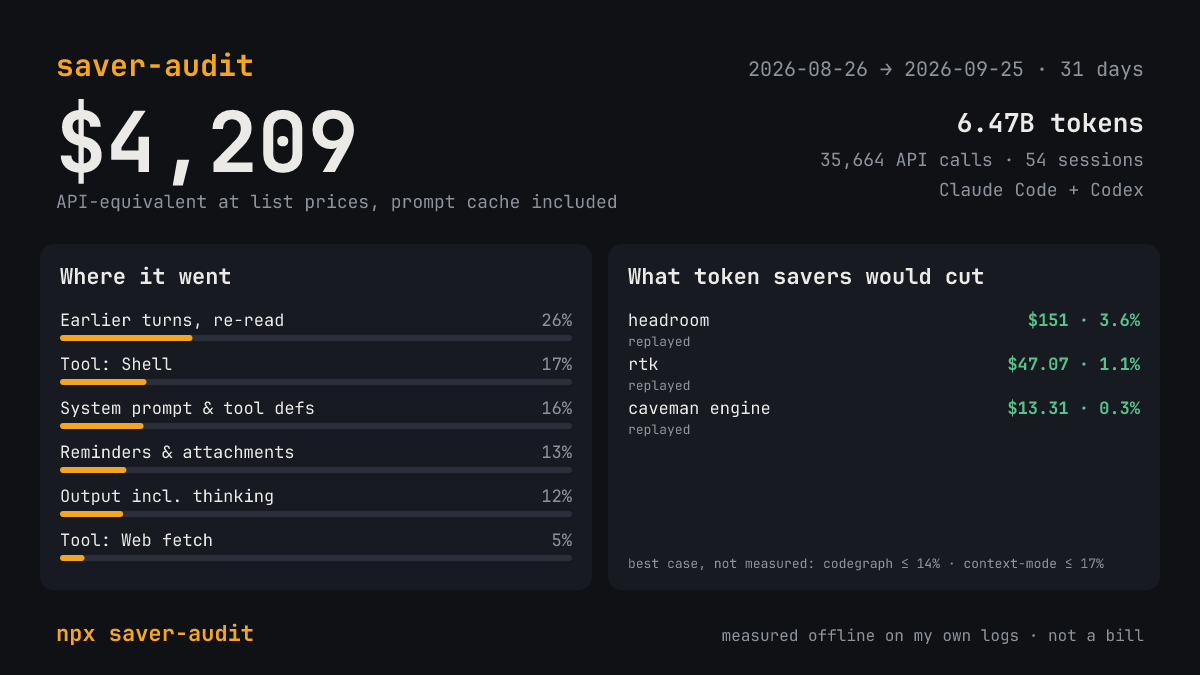
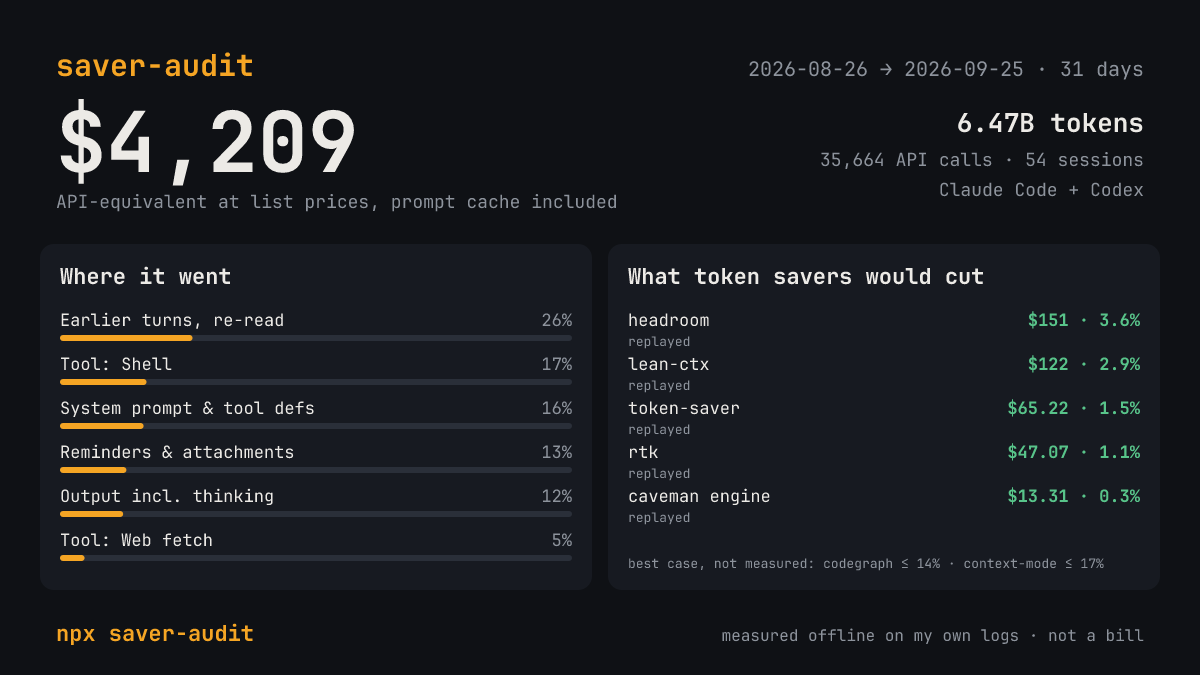
docs: 0.5.0 with five measured savers; accuracy notes; outreach status
Claude-Session: https://claude.ai/code/session_017dmgaMByAKwYp7ado9ov2D

diff --git a/README.md b/README.md
@@ -61,6 +61,8 @@ Nothing leaves your machine. The network is used only when you ask: `--update-pr
 | [rtk](https://github.com/rtk-ai/rtk) 0.50.0 | replayed (all 5,513 outputs) | 15% of tool output | $47 | 1.1% |
 | [caveman](https://github.com/JuliusBrussee/caveman) proxy engine | replayed (every output of 500+ tokens) | all tool output | $13 | 0.3% |
 | [headroom](https://github.com/headroomlabs-ai/headroom) 0.38.0 | replayed (all ~30k outputs), lower estimate | 56% | $151 | 3.6% |
+| [lean-ctx](https://github.com/yvgude/lean-ctx) 3.10.3 | replayed (every output of 1,000+ tokens) | 67% | $122 | 2.9% |
+| [token-saver](https://github.com/ppgranger/token-saver) 3.0.0 | replayed (every output of 1,000+ tokens) | 51% | $65 | 1.5% |
 | caveman skill | modeled: −8.5% output (JetBrains), SKILL.md in every prompt | output | $95 | 2.3% |
 | [codegraph](https://github.com/colbymchenry/codegraph) | upper bound | 43% | ≤ $579 | ≤ 13.8% |
 | [context-mode](https://github.com/mksglu/context-mode) | upper bound | 61% | ≤ $704 | ≤ 16.7% |
@@ -69,13 +71,13 @@ The two biggest items are things no tool-output saver touches:
 - **Re-reading earlier turns:** about a quarter of the cost is earlier assistant turns, thinking included, read again from cache on every call.
 - **The fixed system prompt and tool definitions:** another 16%.
 
-The headroom number is a lower estimate (see below). On Codex alone, where shell output is 44% of the cost, headroom would cut 10.4% and rtk 4.1%.
+The headroom number is a lower estimate (see below). On Codex alone, where shell output is 44% of the cost, headroom would cut 10.4% and rtk 4.1% (token-saver 12.0%, but it works through Claude Code hooks, so that figure is hypothetical).
 
 ## What the labels mean
 
 - **replayed.** saver-audit sends the recorded tool output through *your installed copy* of the saver and counts what is left, measured against what the model actually saw.
   - For example, Claude Code cuts large Bash output down to a preview, so that preview is the baseline.
-  - rtk and the caveman engine replay every output (caveman above 500 tokens, which leaves out about 5% of its savings). headroom, which runs an ML model per output, replays a sample of 300 by default and says so; `--full-replay` replays everything. Results are cached.
+  - rtk, the caveman engine, token-saver and lean-ctx replay every output above a size floor (caveman 500 tokens, token-saver and lean-ctx 1,000). Samples were checked against full replays and missed by up to 40%, so they're not used for these. The floors make caveman about 5%, token-saver about 10% and lean-ctx about 4% low, and the report says so. headroom, which runs an ML model per output, replays a sample of 300 by default and says so; `--full-replay` replays everything. Results are cached.
 - **modeled.** An estimate from a published measurement, with the assumption printed next to it.
 - **upper bound.** The saver changes how the agent behaves (which tools it calls), so replay can only give a ceiling: everything it could possibly remove.
 
@@ -110,10 +112,10 @@ In a terminal the default is the short view with the key menu, plus a card. When
 
 ## Installing the savers (one command)
 
-To get *measured* numbers for rtk, the caveman engine and headroom, they have to be on your machine: saver-audit runs your copy and never bundles saver code (caveman's engine is BSL-1.1).
+To get *measured* numbers for rtk, the caveman engine, token-saver, lean-ctx and headroom, they have to be on your machine: saver-audit runs your copy and never bundles saver code (caveman's engine is BSL-1.1).
 
 ```
-npx saver-audit --install-savers                  # rtk + caveman engine: ~32 MB, seconds
+npx saver-audit --install-savers                  # rtk, caveman engine, token-saver, lean-ctx: ~56 MB, seconds
 npx saver-audit --install-savers --with-headroom  # + headroom and its model: ~1.6 GB, minutes, Python 3.10+
 ```
 
@@ -149,4 +151,4 @@ What saver-audit adds:
 
 ## Status
 
-Early release (0.4.0). Requires Node ≥ 20. Issues and share cards welcome. MIT licence; bundled third-party components are listed in [THIRD_PARTY_NOTICES.md](THIRD_PARTY_NOTICES.md).
+Early release (0.5.0). Requires Node ≥ 20. Issues and share cards welcome. MIT licence; bundled third-party components are listed in [THIRD_PARTY_NOTICES.md](THIRD_PARTY_NOTICES.md).

diff --git a/docs/launch/saver-outreach.md b/docs/launch/saver-outreach.md
@@ -68,12 +68,12 @@
 
 Stdin modes were verified by reading each project's README and source, not by running the program. Anything marked "unverified" needs a real run before we publish a number.
 
-### Tier 1: replayable today. Add a manifest, verify it, then send template A
+### Tier 1: replayable today. Integrated in 0.5.0; send template A (method check)
 
 | Saver | ★ | Licence | Replay command (from source) | Channel | Note |
 |---|---|---|---|---|---|
-| [ppgranger/token-saver](https://github.com/ppgranger/token-saver) | 152 | Apache-2.0 | `token-saver compress '<cmd>'` reads stdin, never executes (README l.507) → route args `["compress", "{command}"]` | Issues, Discussions | Unverified whether its `gh` processor calls the network; check before listing |
-| [yvgude/lean-ctx](https://github.com/yvgude/lean-ctx) | 3.8k | Apache-2.0 | `lean-ctx compress diff - --shell "<cmd>" --json` (rust/src/cli/compress_cmd.rs) returns JSON, not the text | Discussions | Ask for a flag that prints only the compressed text; until then it needs a small JSON-aware adapter |
+| [ppgranger/token-saver](https://github.com/ppgranger/token-saver) | 152 | Apache-2.0 | `token-saver compress '<cmd>'` reads stdin, never executes → manifest args `["compress", "{command}"]` | Issues, Discussions | **Integrated.** Run from source (its own installer edits Claude Code plugin settings, so it isn't used), with HOME in a temp folder; writes nothing. The exit code isn't in the logs, so failure-aware routing isn't used. Ask: an exit-code-free default is fine? |
+| [yvgude/lean-ctx](https://github.com/yvgude/lean-ctx) | 3.8k | Apache-2.0 | `lean-ctx compress diff - --shell "<cmd>" --json` (shell) and `compress diff - --json` (reads) | Discussions | **Integrated** via `jsonRatio` (its own before/after counts scale ours). Ask: a flag that prints only the compressed text, so the numbers use one tokenizer throughout |
 | rtk, caveman engine | 81.7k / 107.8k | Apache-2.0 / BSL-1.1 | already in | Issues | No ask; announce the integration and invite a method check (template A) |
 
 ### Tier 2: a small change makes them replayable (template B)
@@ -101,7 +101,7 @@ Stdin modes were verified by reading each project's README and source, not by ru
 
 ### Suggested order
 
-1. **Now:** add and verify manifests for token-saver and lean-ctx. Claude can install them into `~/.saver-audit/tools` and test them on real logs. Then send template A to both.
+1. **Now:** template A to token-saver and lean-ctx (integrated in 0.5.0, with their numbers from your logs).
 2. **This week:** template B to headroom and lowfat (highest reach, smallest ask), then snip and token-optimizer.
 3. **Before launch:** template C to codebase-memory-mcp and code-review-graph. Their audiences are large, and a fair ceiling rule they endorse is launch material.
 4. **pxpipe:** after launch, once the image-token formula is confirmed.

diff --git a/docs/tech-notes.md b/docs/tech-notes.md
@@ -655,3 +655,34 @@ Ground truth: full replays of every output (window 2026-08-26 → 2026-09-25T13:
   - **Throughput:** caveman runs at about 250 calls/s whatever the concurrency (13, 26 or 52), so the first run on this month's logs takes about 75 s. A 200-token floor would take about 150 s.
 - **headroom:** floor 200 tokens (0% of its savings below it), plus a size-stratified sample of 300. Accurate over a month (−3%), but −20% to +37% on single weeks. It keeps the "sample" label and a note, and it is no longer offered by default.
 - **rtk:** replayed in full.
+
+### 8.10 token-saver and lean-ctx (2026-09-26, 0.5.0)
+
+- **token-saver v3.0.0** (ppgranger/token-saver, Apache-2.0, Python 3.10+).
+  - **Replay command:** `token-saver compress '<cmd>'` reads stdin and never executes the command (`src/quality_cli.py`).
+  - **Not network-bound:** its GitHub update check only runs on `update`.
+  - **Installation:** it runs from the source archive, pinned by SHA-256 (`bf1531a0…`), because the project publishes no checksums. Its own installer registers a Claude Code plugin, so it is not used.
+  - **Isolation:** HOME is set to the run's temp folder, so nothing is written to the user's home and settings are the defaults.
+  - **Speed:** about 0.49 s wall and 0.17 s CPU per call.
+- **lean-ctx v3.10.3** (yvgude/lean-ctx, Apache-2.0, Rust).
+  - **Replay command:** `compress diff - --shell "<cmd>" --json` (shell pipeline) and `compress diff - --json` (read pipeline). These print its own before/after token counts, not the text.
+  - **How it is scored:** the manifest's `jsonRatio` applies that ratio to our o200k count.
+  - **Cloud code:** its cloud features run only in its MCP server, publish, or when logged in; with an isolated HOME there are no credentials.
+  - **Verification:** release binaries are checked against `SHA256SUMS`.
+  - **Speed:** about 0.83 s wall and 0.13 s CPU per call.
+- **Sample vs full replay** (truth = every output of 200+ tokens, 2026-08-26 → 2026-09-25T13:00):
+
+  | Saver | Truth | Sample, month | Sample, weeks |
+  |---|---|---|---|
+  | token-saver | $72.24 | +5% | +6% … +319% |
+  | lean-ctx | $126.76 | +20% | −8% … +22% |
+
+- **Size floors priced against truth.** Throughput is about 84 outputs/s for both together, and both are CPU-bound (374 s for 31.5k outputs).
+
+  | Floor | token-saver | lean-ctx | Outputs replayed |
+  |---|---|---|---|
+  | 500 | −8.6% | −1.0% | 22,365 |
+  | 1,000 | −9.7% | −4.1% | 13,802 |
+  | 2,000 | −25.3% | −14.7% | 7,320 |
+
+- **Decision:** full replay above 1,000 tokens for both. It is exact above the floor, and each saver's note states how low the floor makes it. The first measurement takes about 2.7 min on this heavy month and is cached after.

diff --git a/STATUS.md b/STATUS.md
@@ -284,6 +284,20 @@ Reddit posts and X thread from `docs/launch/` (plan: Show HN Sunday 2026-10-04 1
   codebase-memory-mcp 44.9k, code-review-graph 31.8k. `npm test` → 58/58.
   Sending any message is the founder's GATE.
 
+- 2026-09-26 — **0.5.0: token-saver and lean-ctx added** (founder: yes). Built-in
+  manifests + verified installers (token-saver: source archive pinned by SHA-256, run
+  from source with HOME isolated, its own plugin installer not used; lean-ctx: release
+  binary checked against SHA256SUMS, `jsonRatio` because its offline preview prints
+  counts). New manifest features: `{command}` placeholder, `jsonRatio`. Accuracy (tech-
+  notes §8.10): sampling off by up to +319% (token-saver, small week) / +22% (lean-ctx);
+  so full replay above a 1,000-token floor (−9.7% / −4.1% vs full truth, stated in notes).
+  First measurement for both ≈ 2.7 min on the founder's month, cached after.
+  Real numbers (2026-08-26 → 2026-09-25T13:00, $4,209): headroom $150.83 (3.6%),
+  lean-ctx $121.60 (2.9%), token-saver $65.22 (1.5%), rtk $47.07 (1.1%), caveman engine
+  $13.31 (0.3%). Installed for the founder into `~/.saver-audit/tools` via
+  `--install-savers --yes`. Fixtures recorded with the real programs; `npm test` → 61/61.
+  X post now lists all measured savers (compact variant keeps it under 280).
+
 ### Savers in scope for the launch (M0 acceptance)
 
 | Saver | Class | Condition |
@@ -389,7 +403,7 @@ Reddit posts and X thread from `docs/launch/` (plan: Show HN Sunday 2026-10-04 1
 
 ## Human steps waiting (GATE)
 
-- **Publish 0.4.0** from your own terminal: `cd ~/Documents/Programming/saver-audit && npm publish`.
+- **Publish 0.5.0** from your own terminal: `cd ~/Documents/Programming/saver-audit && npm publish`.
 - **Saver outreach**: send the messages in `docs/launch/saver-outreach.md` (edit in your
   voice; one per project; Discussions if enabled, else an issue).
 

diff --git a/CONTRIBUTING.md b/CONTRIBUTING.md
@@ -23,6 +23,8 @@ It runs with `DO_NOT_TRACK=1`, a 60-second timeout per output, and a throwaway s
 Put it in `src/savers/builtin/<id>.json` for a pull request, or in `~/.saver-audit/savers/<id>.json` to try it on your own logs. Working examples:
 - [`rtk.json`](src/savers/builtin/rtk.json): a hook-stage filter with one route per command type.
 - [`caveman-engine.json`](src/savers/builtin/caveman-engine.json): a proxy-stage compressor with one route for everything.
+- [`token-saver.json`](src/savers/builtin/token-saver.json): passes the recorded command with `{command}`.
+- [`lean-ctx.json`](src/savers/builtin/lean-ctx.json): two routes (shell and file reads), and reports counts via `jsonRatio`.
 - [`codegraph.json`](src/savers/builtin/codegraph.json) and [`context-mode.json`](src/savers/builtin/context-mode.json): upper bounds.
 
 ```json
@@ -63,6 +65,7 @@ Put it in `src/savers/builtin/<id>.json` for a pull request, or in `~/.saver-aud
 | `minTokens` | Outputs smaller than this are counted as unchanged without running your program (saves time when small outputs are never touched). |
 | `codexHypothetical` | `true` if your saver works through Claude Code hooks: Codex hooks cannot rewrite tool input, so its Codex numbers are marked hypothetical. |
 | `install` | How to install it, shown when it is missing. |
+| `jsonRatio` | Only if your program prints counts instead of the filtered text, as JSON: `{ "before": "<field>", "after": "<field>", "afterBytes": "<field>" }`. saver-audit applies your before/after ratio to its own token count of the same output, and says so in the report. Printing the text is preferred. |
 
 **"Modeled" savers are not accepted as manifests.** These change the model's output style or rest on an estimate, and need a cited measurement, so they go through code review as code.
 

diff --git a/docs/launch/show-hn-fact-sheet.md b/docs/launch/show-hn-fact-sheet.md
@@ -49,6 +49,8 @@ rtk, the caveman engine and headroom were all fully replayed.
 | rtk 0.50.0 | replayed, all 5,513 outputs | 15% of tool output | $47 | 1.1% |
 | caveman proxy engine | replayed, every output of 500+ tokens | all tool output | $13 | 0.3% |
 | headroom 0.38.0 | replayed, all ~30k outputs; a lower estimate | 56% | $151 | 3.6% |
+| lean-ctx 3.10.3 | replayed, every output of 1,000+ tokens (~4% low) | 67% | $122 | 2.9% |
+| token-saver 3.0.0 | replayed, every output of 1,000+ tokens (~10% low) | 51% | $65 | 1.5% |
 | caveman skill | modeled: −8.5% output (JetBrains), SKILL.md in every prompt | output | $95 | 2.3% |
 | codegraph | upper bound (it changes agent behaviour) | 43% | ≤ $579 | ≤ 13.8% |
 | context-mode | upper bound (it changes agent behaviour) | 61% | ≤ $704 | ≤ 16.7% |
@@ -62,6 +64,8 @@ rtk, the caveman engine and headroom were all fully replayed.
 | Cost | $125 |
 | Largest content bucket | Shell output, $55 (44%) |
 | headroom | $13.05 (10.4% of the Codex bill) |
+| lean-ctx | $9.66 (7.7%, hypothetical on Codex) |
+| token-saver | $15.00 (12.0%, hypothetical on Codex: it works through Claude Code hooks) |
 | rtk | $5.20 (4.1% of the Codex bill) |
 | caveman engine | $0.59 |
 | codegraph ceiling | ≤ $19.51 |

diff --git a/docs/launch/reddit-briefs.md b/docs/launch/reddit-briefs.md
@@ -35,6 +35,8 @@ Avoid:
 - **Saver numbers (Claude Code only):**
   - rtk $41.88 (1.0%);
   - caveman engine $12.72 (0.3%);
+  - lean-ctx $111.95 (2.7%);
+  - token-saver $50.21 (1.2%);
   - caveman skill $94.71 (2.3%, modeled);
   - headroom $137.77 (3.4%, a lower estimate);
   - ceilings: codegraph ≤ $560 (13.7%), context-mode ≤ $655 (16.0%).

diff --git a/docs/launch/x-thread.md b/docs/launch/x-thread.md
@@ -23,6 +23,8 @@ Then I replayed the same sessions through the popular token savers, using my ins
 rtk: $47 (1.1%)
 caveman engine: $13 (0.3%)
 headroom: $151 (3.6%)
+lean-ctx: $122 (2.9%)
+token-saver: $65 (1.5%)
 caveman skill (modeled): $95 (2.3%)
 
 **3/**
